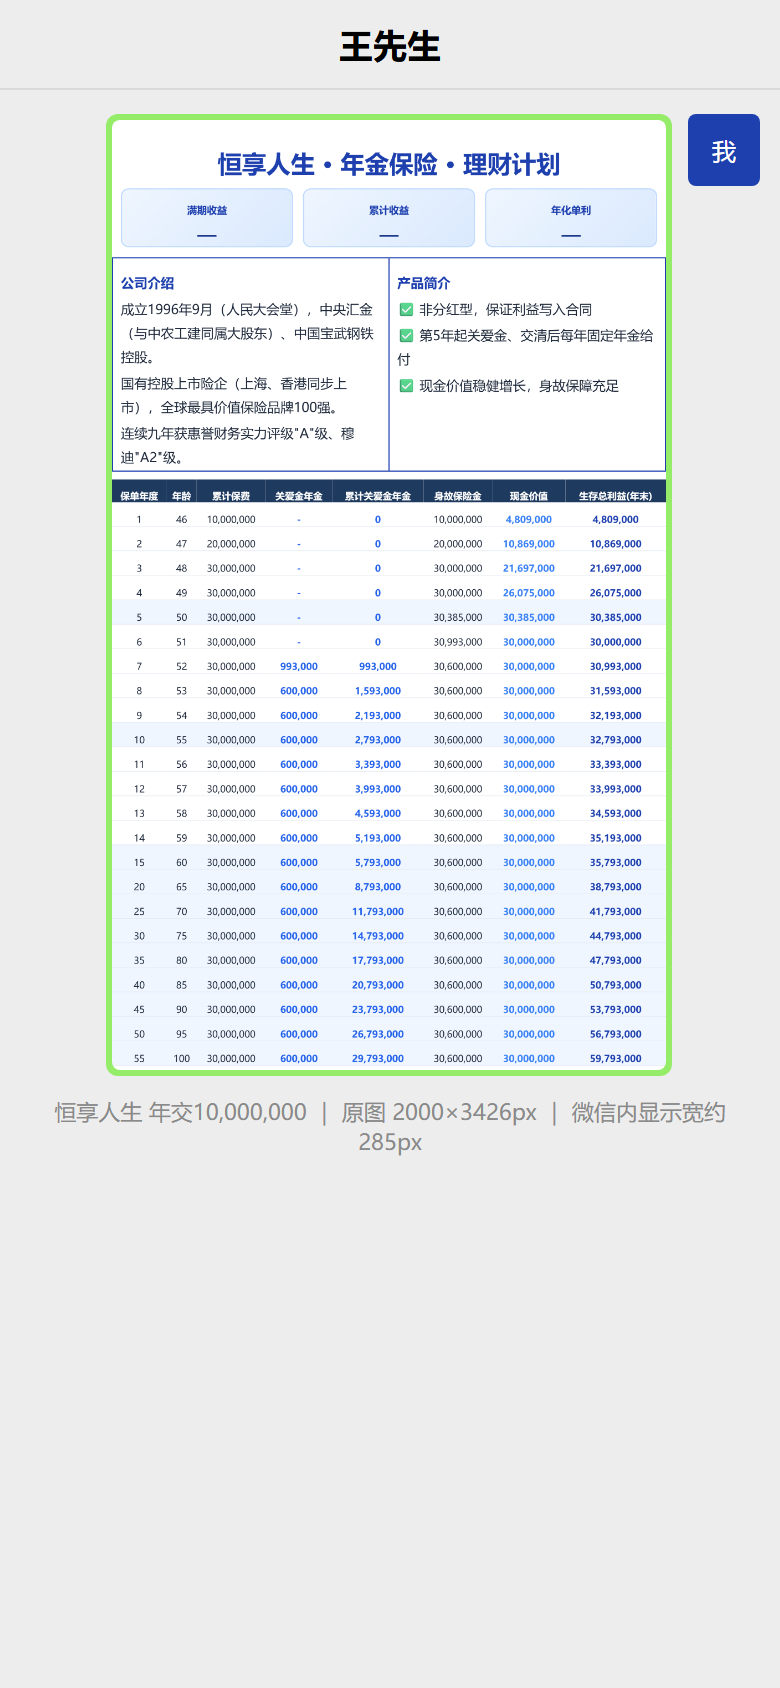
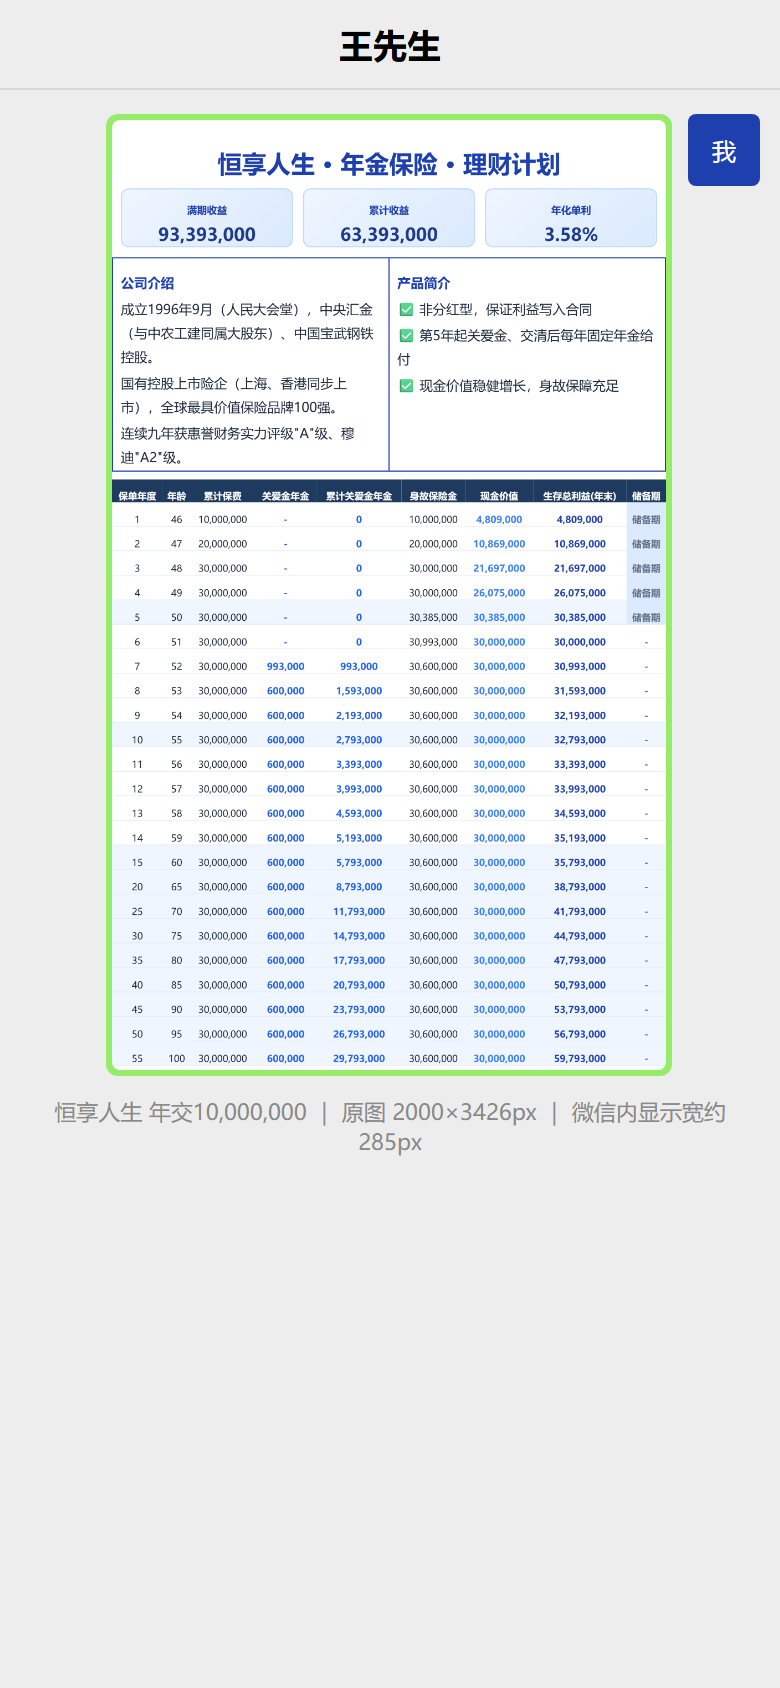
fix(hengxiang): 补齐储备期列+修复指标卡IIFE作用域
- 恒享网页表格新增第9列「储备期」，前5年浅蓝底显示「储备期」，之后显示「-」
- 遵循2026-07-24招行版规范：逐行独立td，不用rowspan
- 修复generate()中核心指标卡IIFE被错误放在}catch之后，引用try块级years导致按钮永久卡死在「计算中…」且指标卡空白
- 重新跑 mobile_scenario_test.py hengxiang：三档金额全部0溢出/0横滚

diff --git a/calculator-hengxiang.html b/calculator-hengxiang.html
@@ -41,6 +41,9 @@
   .col-cv{color:var(--cv);font-weight:600;}
   .col-surv{color:var(--surv);font-weight:700;}
   .col-ann{color:#2563EB;font-weight:600;}
+  /* 储备期列：遵循 2026-07-24 招行规范（前5年逐行独立 td，浅蓝底居中灰字，与宏安/宏御/宏愿对齐） */
+  #resultTable .col-rate{text-align:center;color:#64748B;font-weight:600;white-space:nowrap;}
+  #resultTable td.col-rate.reserve-cell{background:#DBEAFE;}
   .err{display:none;background:#FEE2E2;color:#B91C1C;padding:10px 14px;border-radius:8px;margin-bottom:12px;font-size:14px;font-weight:600;}
   .err.show{display:block;}
   .toast{position:fixed;bottom:24px;left:50%;transform:translateX(-50%);background:#1E293B;color:#fff;padding:12px 22px;border-radius:24px;opacity:0;transition:.3s;font-size:14px;z-index:99;}
@@ -213,7 +216,7 @@ body.capturing .km-val{font-size:32px !important;line-height:1.2 !important;}
         <thead><tr>
           <th>保单年度</th><th>年龄</th><th>累计保费</th>
           <th>关爱金年金</th><th>累计关爱金年金</th>
-          <th>身故保险金</th><th>现金价值</th><th>生存总利益(年末)</th>
+          <th>身故保险金</th><th>现金价值</th><th>生存总利益(年末)</th><th>储备期</th>
         </tr></thead>
         <tbody id="resultBody"></tbody>
       </table>
@@ -279,6 +282,7 @@ async function generate(){
     const body=document.getElementById('resultBody');
     body.innerHTML='';
 
+    const reserveYears=5; // 招行规范：前5年（储备期）统一显示"储备期"
     years.forEach((row,idx)=>{
       const yr=row[0], cum=row[2], ann=row[3], annCum=row[4], death=row[6], cv=row[7], surv=row[8];
       const curAge=age+yr-1;
@@ -288,18 +292,25 @@ async function generate(){
       const tr=document.createElement('tr');
       if(rowClass) tr.className=rowClass;
 
+      // 储备期列：前5年显示"储备期"（浅蓝底，逐行独立 td），之后显示"-"
+      const reserveCell = yr <= reserveYears
+        ? `<td class="col-rate reserve-cell">储备期</td>`
+        : `<td class="col-rate">-</td>`;
+
       let cells=`<td>${yr}</td><td>${curAge}</td>`;
       cells+=`<td>${fmt(cum*scale)}</td>`;
       cells+=`<td class="col-ann">${ann>0?fmt(ann*scale):'-'}</td><td class="col-ann">${fmt(annCum*scale)}</td>`;
       cells+=`<td>${fmt(death*scale)}</td>`;
       cells+=`<td class="col-cv">${fmt(cv*scale)}</td><td class="col-surv">${fmt(surv*scale)}</td>`;
+      cells+=reserveCell;
       tr.innerHTML=cells;
       body.appendChild(tr);
     });
     // 应用显示密度过滤
     if(typeof filterRowsByAge==='function'){ filterRowsByAge(window.getDisplayMode?window.getDisplayMode():'5y60'); }
+    // 填充核心指标卡（满期/累计/年化）——须位于 try 内：years/scale 为 try 块级作用域
+    (function(){var km=document.getElementById('keyMetrics');if(!km)return;var ly=years[years.length-1];var ls=ly[8]*scale;var tp=premium*term;document.getElementById('kmMaturity').textContent=fmt(ls);document.getElementById('kmCum').textContent=fmt(ls-tp);document.getElementById('kmRate').textContent=((ls-tp)/(tp*years.length)*100).toFixed(2)+'%';})();
   }catch(e){showError('生成出错：'+e.message);}
-  (function(){var km=document.getElementById('keyMetrics');if(!km)return;var ly=years[years.length-1];var ls=ly[8]*scale;var tp=premium*term;document.getElementById('kmMaturity').textContent=fmt(ls);document.getElementById('kmCum').textContent=fmt(ls-tp);document.getElementById('kmRate').textContent=((ls-tp)/(tp*years.length)*100).toFixed(2)+'%';})();
   btn.disabled=false; btn.textContent='生成利益演示';
 }
 

diff --git a/qa/daily-report/2026-08-05-task0-report.md b/qa/daily-report/2026-08-05-task0-report.md
@@ -72,7 +72,7 @@ th, td { font-size: var(--fs-base); }
 ### 4.2 标准全站验收（`qa/capture_acceptance.py`）
 - **69 张截图 / 23.9MB** → `qa/screenshots/2026-08-05/`
 - 18 个页面手机端横向滚动全 PASS。
-- 5 款演算器导出 PNG 宽度/署名/储备期（除恒享历史遗留外）全部 OK。
+- 5 款演算器导出 PNG 宽度/署名/储备期全部 OK（恒享储备期列后续已补齐）。
 
 ### 4.3 关键截图位置
 - 手机场景全量：`qa/screenshots/2026-08-05/mobile/`
@@ -81,15 +81,17 @@ th, td { font-size: var(--fs-base); }
 - 宏安 1000万导出：`hongan_1000w_export.png`
 - 宏御 1000万导出：`hongyu_1000w_export.png`
 
-## 五、已知遗留
-- **恒享人生 hengxiang 导出图「储备期」标记缺失**：V4.0 前历史遗留，本次未触碰其生成逻辑，待后续专项处理。
+## 五、后续补充修复
+- **恒享人生 hengxiang 导出图/网页「储备期」列补齐**：
+  - 网页表格新增第 9 列「储备期」（前5年浅蓝底「储备期」，之后「-」），遵循 2026-07-24 招行版「逐行独立 td」规范。
+  - 修复 `generate()` 中核心指标卡 IIFE 被错误放在 `}catch` 之后，引用 `try` 块级 `years` 导致的 `years is not defined`，以致按钮永久卡死在「计算中…」且 #kmMaturity/#kmCum/#kmRate 空白。
 - **站内搜索**：仍为方案文档 `docs/search-plan.md`，未开发。
 
 ## 六、提交
-- 本次 commit：`b115ef5`
+- 任务0 commit：`b115ef5`
+- 恒享储备期 + 指标卡 IIFE 修复 commit：`TODO`
 - 已 push 至 GitHub Pages：`https://1131921527-alt.github.io/xinhua-hub/`
 - 微信内置浏览器会拦截 github.io，请用 Chrome 桌面端或手机浏览器打开。
 
 ## 七、后续建议
 1. 若用户继续反馈某款演算器导出图表格仍小，可考虑对复杂表启用「导出摘要模式」（顶部大卡 + 关键年度数据），保留完整数据表作为第二页。
-2. 恒享「储备期」标记缺失建议单独立项，修复后统一跑 `mobile_scenario_test.py hengxiang` 验证。
